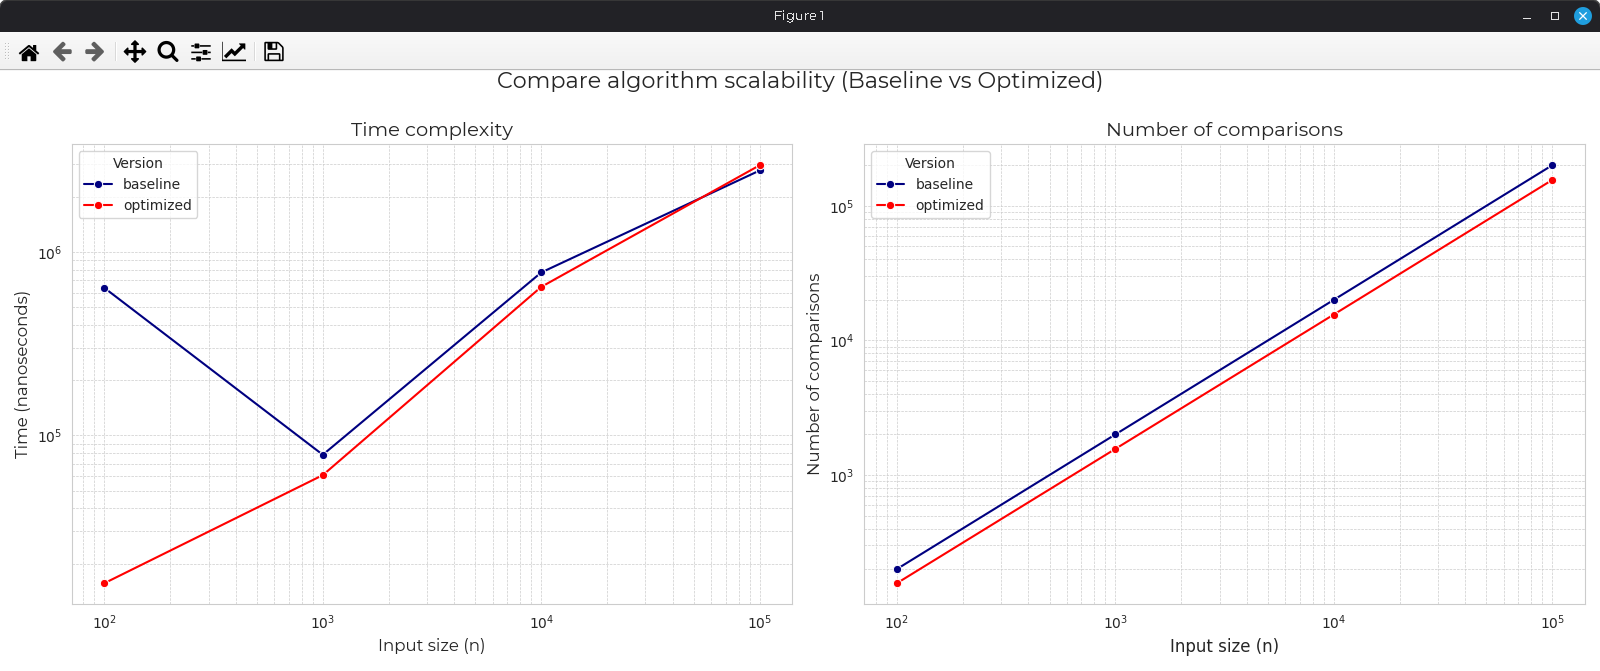
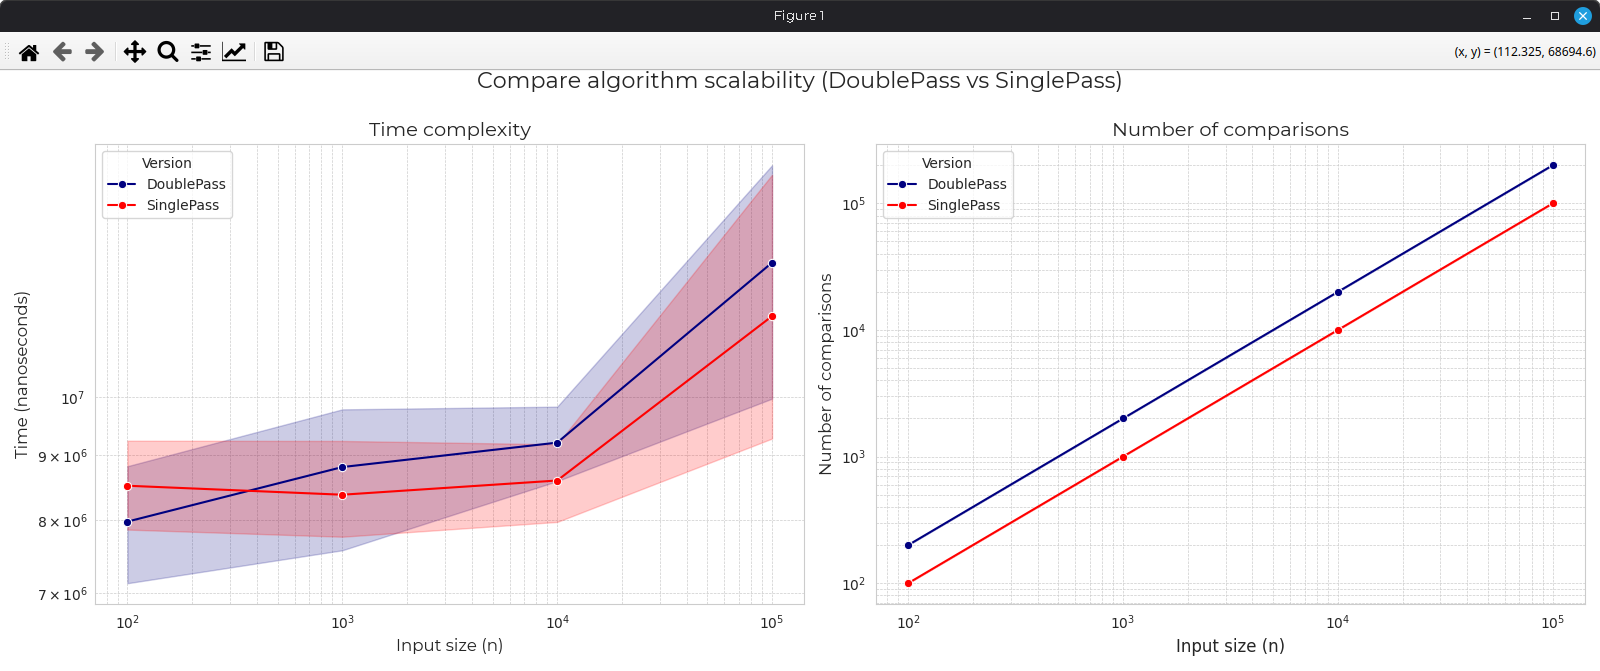
docs(readme): usage instructions and complexity analysis

diff --git a/main.py b/main.py
@@ -3,18 +3,17 @@ import matplotlib.pyplot as plt
 import seaborn as sns
 
 file_path = 'benchmark_results.csv'
-
 df = pd.read_csv(file_path)
+
+df['version'] = df['version'].str.strip()
 
 df_10k = df[df['n'] == 10000]
 
+print("Versions found:", df_10k['version'].unique())
+
 sns.set_style("whitegrid")
 fig, axes = plt.subplots(1, 2, figsize=(18, 6))
-fig.suptitle(
-    'Compare performance: n=10000',
-fontfamily="Montserrat",
-fontsize=16
-)
+fig.suptitle('Compare performance: n=10000', fontsize=16, fontweight='bold')
 
 sns.barplot(
     ax=axes[0],
@@ -22,11 +21,11 @@ sns.barplot(
     x='distribution',
     y='time(ns)',
     hue='version',
-    palette={'Baseline': 'skyblue', 'Optimized': 'darkorange'}
+    palette=sns.color_palette(['skyblue', 'darkorange'])
 )
-axes[0].set_title('Time complexity', fontfamily="Montserrat", fontsize=14)
-axes[0].set_xlabel('Data distribution', fontfamily="Montserrat", fontsize=12)
-axes[0].set_ylabel('time (ns)', fontfamily="Montserrat", fontsize=12)
+axes[0].set_title('Time complexity', fontsize=14, fontweight='bold')
+axes[0].set_xlabel('Data distribution', fontsize=12)
+axes[0].set_ylabel('Time (ns)', fontsize=12)
 axes[0].legend(title='Version')
 
 sns.barplot(
@@ -35,11 +34,11 @@ sns.barplot(
     x='distribution',
     y='memory(bytes)',
     hue='version',
-    palette={'Baseline': 'skyblue', 'Optimized': 'darkorange'}
+    palette=sns.color_palette(['skyblue', 'darkorange'])
 )
-axes[1].set_title('Space complexity', fontfamily="Montserrat", fontsize=14)
-axes[1].set_xlabel('Data distribution', fontfamily="Montserrat", fontsize=12)
-axes[1].set_ylabel('Space (b)', fontfamily="Montserrat", fontsize=12)
+axes[1].set_title('Memory usage', fontsize=14, fontweight='bold')
+axes[1].set_xlabel('Data distribution', fontsize=12)
+axes[1].set_ylabel('Memory (bytes)', fontsize=12)
 axes[1].legend(title='Version')
 
 plt.tight_layout(rect=[0, 0, 1, 0.96])

diff --git a/second.py b/second.py
@@ -3,13 +3,17 @@ import matplotlib.pyplot as plt
 import seaborn as sns
 import numpy as np
 
-# 1. Загрузка данных из файла
-file_path = 'benchmark-results.csv'
+file_path = 'benchmark_results.csv'
 df = pd.read_csv(file_path)
+
+df['version'] = df['version'].str.strip()
+
+print("Versions found:", df['version'].unique())
+
 sns.set_style("whitegrid")
 fig, axes = plt.subplots(1, 2, figsize=(16, 6))
 fig.suptitle(
-    'Compare algorithm scalability (Baseline vs Optimized)',
+    'Compare algorithm scalability (DoublePass vs SinglePass)',
     fontfamily="Montserrat",
     fontsize=16,
     y=1
@@ -22,7 +26,7 @@ sns.lineplot(
     y='time(ns)',
     hue='version',
     marker='o',
-    palette={'baseline': 'navy', 'optimized': 'red'}
+    palette={'DoublePass': 'navy', 'SinglePass': 'red'}
 )
 axes[0].set_title('Time complexity', fontfamily="Montserrat", fontsize=14)
 axes[0].set_xlabel('Input size (n)', fontfamily="Montserrat", fontsize=12)
@@ -32,7 +36,6 @@ axes[0].set_yscale('log')
 axes[0].legend(title='Version')
 axes[0].grid(True, which="both", ls="--", linewidth=0.5)
 
-
 sns.lineplot(
     ax=axes[1],
     data=df,
@@ -40,7 +43,7 @@ sns.lineplot(
     y='comparisons',
     hue='version',
     marker='o',
-    palette={'baseline': 'navy', 'optimized': 'red'}
+    palette={'DoublePass': 'navy', 'SinglePass': 'red'}
 )
 axes[1].set_title('Number of comparisons', fontfamily="Montserrat", fontsize=14)
 axes[1].set_xlabel('Input size (n)', fontsize=12)
